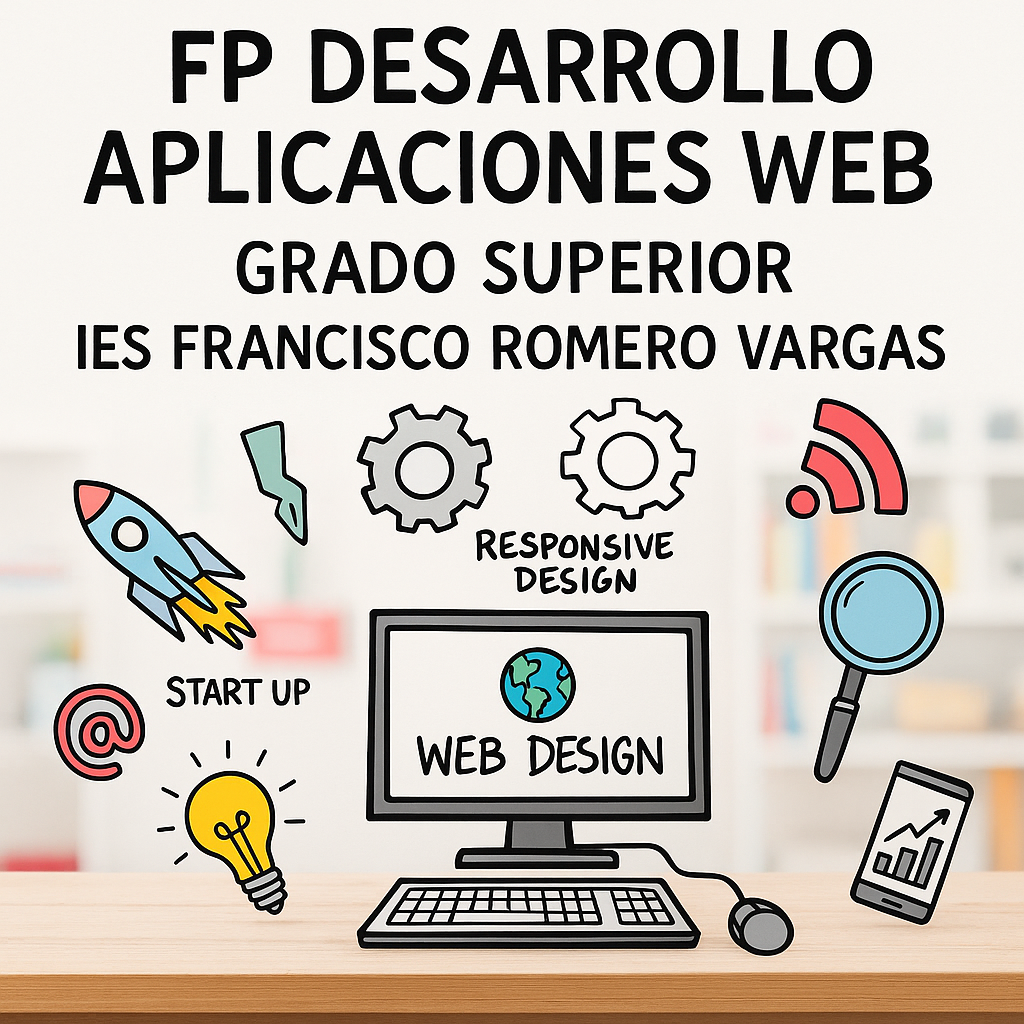
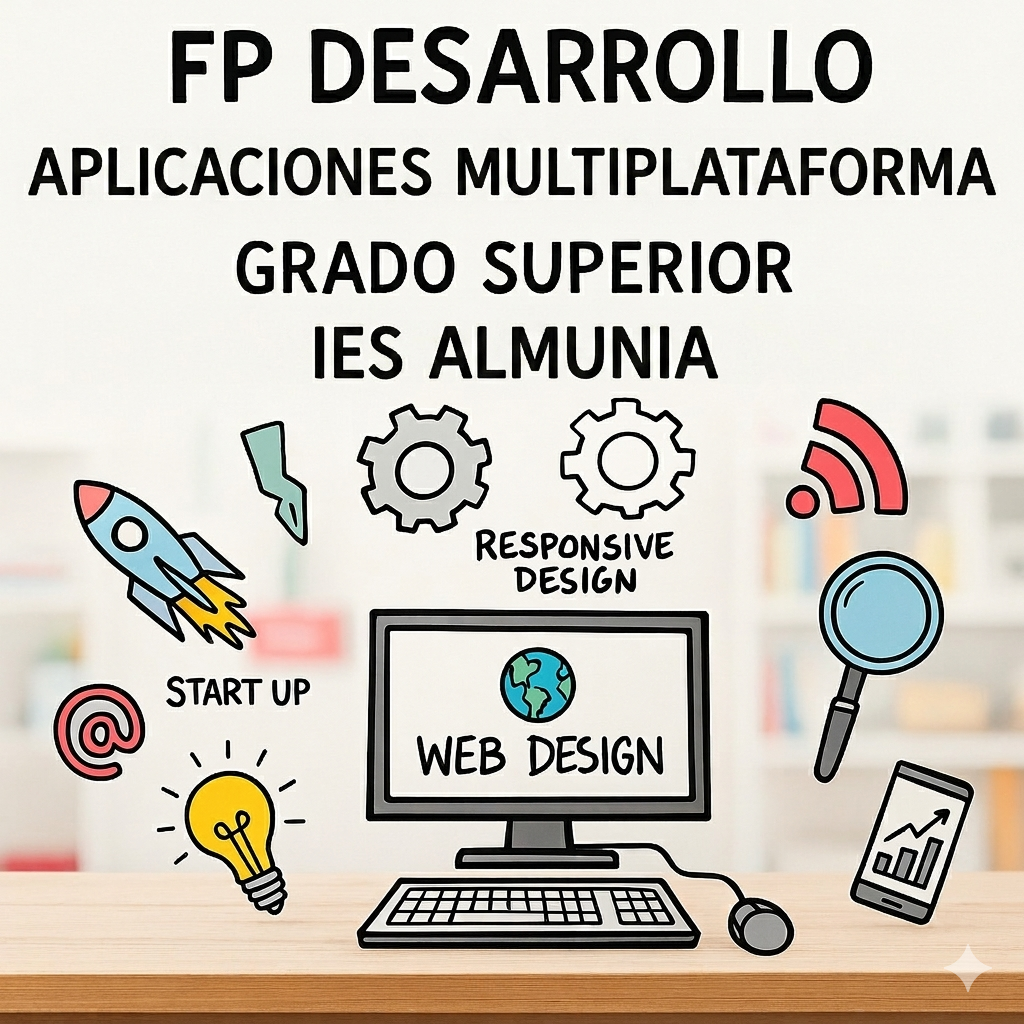
cambio foto portada

diff --git a/docs/BEDROCK_SUPPORT_BOT.md b/docs/BEDROCK_SUPPORT_BOT.md
@@ -259,7 +259,7 @@ Variables mínimas requeridas:
 - `AWS_ACCESS_KEY_ID`
 - `AWS_SECRET_ACCESS_KEY`
 - `AWS_REGION=us-east-1`
-- `BEDROCK_KB_ID=C5B2GIAZKP`
+- `BEDROCK_KB_ID=FNWPV3SCMP`
 - `BEDROCK_MODEL_ID=amazon.nova-lite-v1:0`
 
 Variables opcionales recomendadas: